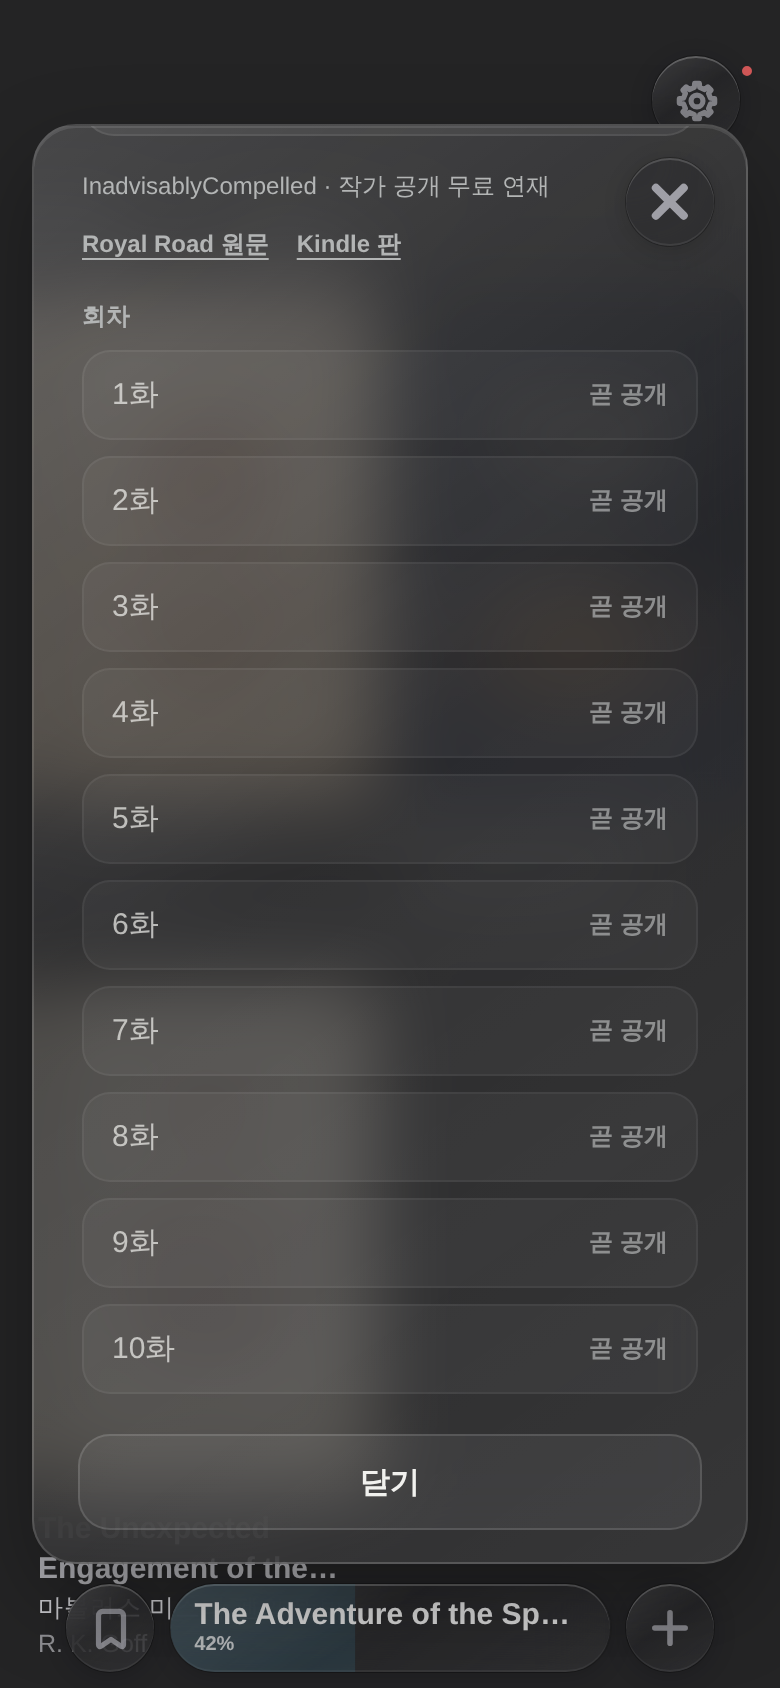
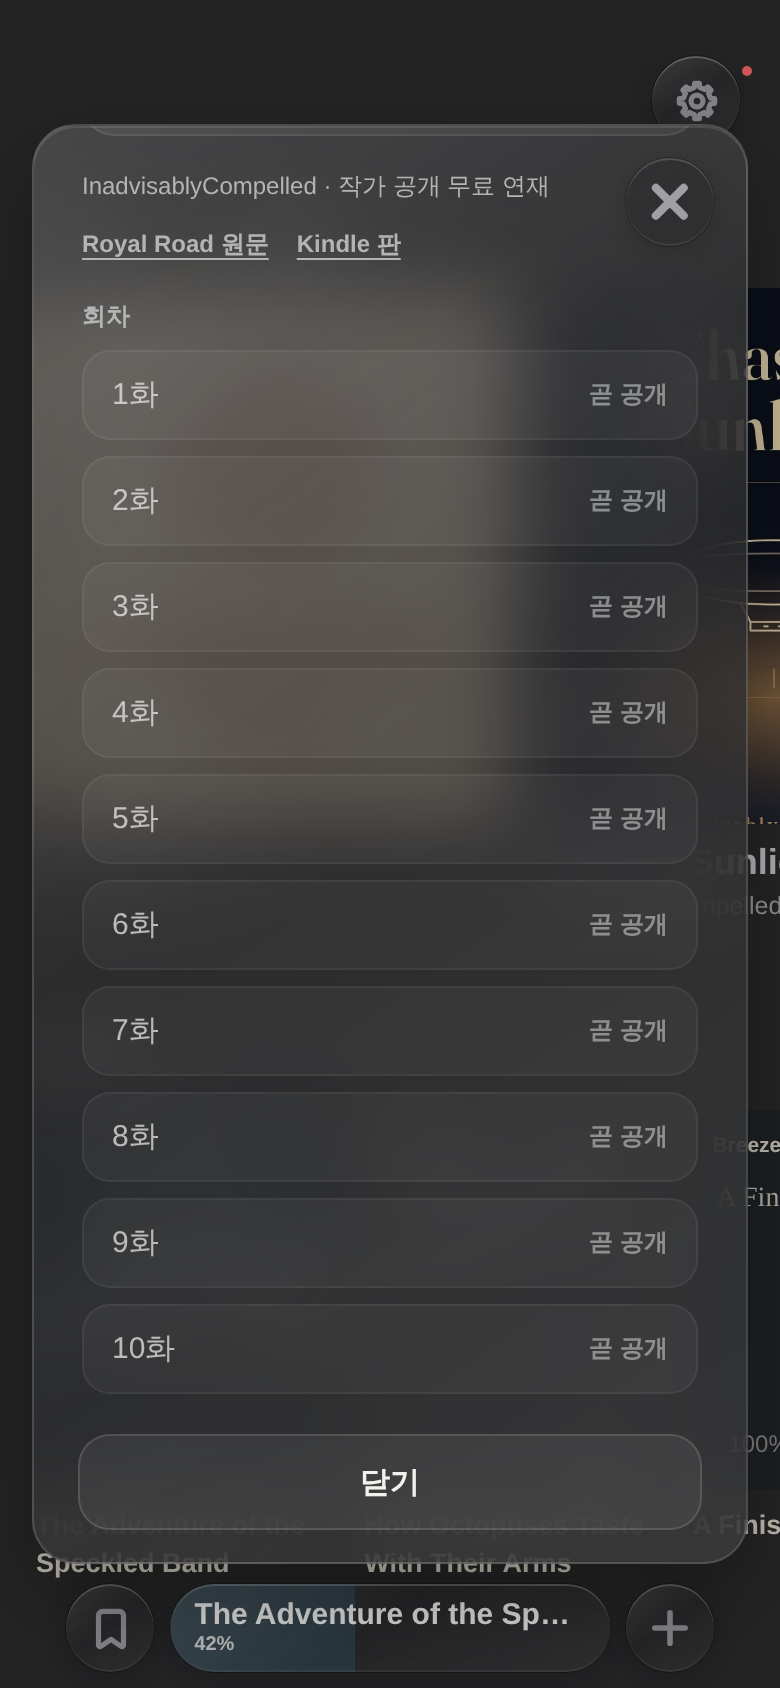
Home: web-novel cards share the classic cover frame; library uses the shared grid
- Hide the web-novel Korean line (.ko) in the 추천 carousel so its 3:4 card
  has the classic card's caption rows and the same cover size (238x268).
- Drop the new #longform-grid 2/3/4 minmax rule; the library keeps the grid it
  shares with the 글 page (190px cards, 2/3/4 columns).
- verify-rss-card-browser: 추천 is a carousel again, check sideways scroll.
- Capture tool: no dormant 기사 shot, add the library grid shot; regenerate QA PNGs.

diff --git a/styles/home.css b/styles/home.css
@@ -448,18 +448,17 @@
   }
 }
 
-/* ---- 내 책 library grid (2026-10-30) ----
+/* ---- Home carousels and the 내 책 library grid (2026-10-30) ----
    On Home both rows are sideways carousels (the rail rules above): 추천
-   (#casual-rail) and 내 책 (#shelf), as before #307. The grid lives in the
-   full library (#v-longform, opened by the 내 책 chevron): 2 columns on a
-   phone, 3 from 700px, 4 from 1024px. */
-#v-longform #longform-grid{grid-template-columns:repeat(2,minmax(0,1fr));}
-@media (min-width:700px){
-  #v-longform #longform-grid{grid-template-columns:repeat(3,minmax(0,1fr));gap:28px 16px;}
-}
-@media (min-width:1024px){
-  #v-longform #longform-grid{grid-template-columns:repeat(4,minmax(0,1fr));}
-}
+   (#casual-rail) and 내 책 (#shelf), as before #307. The grid is the full
+   library (#v-longform #longform-grid, opened by the 내 책 chevron) and uses
+   the shared library grid rule above, the same cards as #casual-grid:
+   2 columns on a phone, 3 on a tablet, 4 on a wide screen.
+   A web-novel card has the classic card's frame: cover, title, author. Its
+   Korean line (.ko) would add a third caption row inside the 3:4 card and
+   shrink the cover, so the carousel leaves it out; the Korean title stays in
+   the card's label and in the preview sheet's subtitle. */
+:is(#v-home #casual-rail, #v-longform #longform-recommend-rail) > .home-recommend-book .ko{display:none;}
 
 /* Quiet typographic jackets when no real cover is available. */
 .editorial-cover .cover-art{position:absolute;left:50%;top:19%;width:76%;height:43%;

diff --git a/index.html b/index.html
@@ -57,7 +57,7 @@
        씁니다 — 디자인을 바꾸는 일은 tokens.css 하나를 고치는 일입니다. -->
   <link rel="stylesheet" href="styles/tokens.css?v=936d21c4">
   <link rel="stylesheet" href="styles/base.css?v=489ca3ea">
-  <link rel="stylesheet" href="styles/home.css?v=bb7fa929">
+  <link rel="stylesheet" href="styles/home.css?v=4bdef506">
   <link rel="stylesheet" href="styles/article-preview.css?v=575ae217">
   <link rel="stylesheet" href="styles/pdf-ink.css?v=3057be2c">
   <link rel="stylesheet" href="styles/reader.css?v=99b81fe1">

diff --git a/landing/index.html b/landing/index.html
@@ -75,7 +75,7 @@
   <!-- 저장했다고 알리는 한 줄(`#toast`)과 단어장 한 줄(`.vrow`) -->
   <link rel="stylesheet" href="../styles/components.css?v=60b839c5">
   <!-- 서재의 책·글 카드(`.bookcard` · `.casual`) -->
-  <link rel="stylesheet" href="../styles/home.css?v=bb7fa929">
+  <link rel="stylesheet" href="../styles/home.css?v=4bdef506">
   <link rel="stylesheet" href="landing.css?v=18a60bd5">
 </head>
 <!-- `lang-ko` 는 앱과 같은 제목 글꼴 짝(Fraunces + 고운바탕)을 씁니다 — 로마자

diff --git a/sw.js b/sw.js
@@ -33,7 +33,7 @@
 /* tools/stamp-version.mjs 가 찍습니다 — 손으로 고치지 마세요.
    값은 "판 번호를 찍은 index.html 의 해시" 입니다. index.html 은 모든 파일의
    해시를 담고 있으니, 이 한 줄이 "무엇이든 바뀌었다" 를 정확히 가리킵니다. */
-const VERSION = 'c52c171b';
+const VERSION = '41d64ffa';
 const CACHE = `breeze-${VERSION}`;
 
 /* 담을 목록은 index.html 을 읽어서 그때그때 만듭니다. 손으로 적어 두면 파일을

diff --git a/docs/decisions/010-local-rss-recommendations.md b/docs/decisions/010-local-rss-recommendations.md
@@ -179,8 +179,13 @@ order (`compareRecentReading`), so a book is first in both places. On Home
 both rows are horizontal scrolling carousels (the pre-#307 style): the selected
 추천 tab's items, and 내 책, each run in one sideways row that scrolls on iPhone
 and iPad with no vertical hijack. The grid is the full library behind the 내 책
-chevron (`#v-longform #longform-grid`): 2 columns on a phone, 3 from 700px, 4
-from 1024px. Web-novel covers keep their 2:3 shape so nothing is cropped. The
+chevron (`#v-longform #longform-grid`). It uses the library grid rule it already
+shared with the 글 page (`#casual-grid`): columns of `min(41vw,190px)`, so 2
+columns on a phone (171px at 390), 3 on a tablet, 4 on a wide screen. Both
+library pages keep the same card size. In the 추천 carousel a web-novel card has
+the classic card's frame (cover, title, author); its Korean line (`.ko`) is not
+shown there, because a third caption row inside the 3:4 card shrank the cover.
+The Korean title stays in the card's label and the preview sheet's subtitle. The
 floating resume pill and + stay as they were.
 
 #### 추천 back to a carousel (2026-10-30, follow-up to #307)
@@ -190,7 +195,7 @@ was wrong: 추천 is a horizontal carousel again, exactly as before #307. A late
 correction made 내 책 on Home a carousel too, and moved the grid to the full
 library (`#v-longform`). This is CSS-only. `#casual-rail` and `#shelf` fall back
 to the rail rules (`display:flex; overflow-x:auto; scroll-snap-type:x`), and
-`#v-longform #longform-grid` is the 2/3/4-column grid. Everything else #307 introduced is kept: the
+`#v-longform #longform-grid` keeps the shared 2/3/4-column library grid. Everything else #307 introduced is kept: the
 고전/웹소설/기사 toggle, the three web novels and their new covers
 (`assets/webnovels/covers/*.webp`), and article→내 책 saving
 (`commitArticleDraft`).

diff --git a/docs/qa/home-rows-20261030.md b/docs/qa/home-rows-20261030.md
@@ -74,3 +74,23 @@ and `node tests/verify-structure.mjs` pass here. The browser checks
 (`tests/verify-home-rows-browser.mjs` and the RSS browser checks, which now turn
 the dormant tab on through `tests/helpers/home-articles.mjs`) and screenshots
 were not run here, for the same reason as above.
+
+## Follow-up: card sizes, screenshots (2026-10-31)
+
+Two browser checks failed on the previous head and pass now:
+
+- `verify-home-rows-browser`: web-novel covers in the 추천 carousel were
+  238×247 against the classic 238×268. The web-novel card's Korean line
+  (`.ko`) took a third caption row inside the 3:4 card. The carousel now hides
+  `.ko`, so web-novel and classic cards have the same frame (title, author).
+- `verify-casual-rails-browser`: a new 2/3/4 `minmax(0,1fr)` rule made the
+  내 책 library cards wider (228px at 768, 215px at 1180) than the 글 page
+  (190px). The rule is removed. The library already had a 2/3/4-column grid
+  shared with the 글 page (`min(41vw,190px)` columns), which meets the spec.
+
+Screenshots from `node tools/capture-home-rows.mjs` (iPhone 390×844 light shown here; it also
+writes iPhone dark and iPad) are in
+[`home-rows-20261030/`](home-rows-20261030/): `iphone-light-home-classics.png`,
+`iphone-light-home-webnovels.png`, `iphone-light-library-grid.png`.
+The `*-home-articles.png` files are from #307 and show the 기사 tab, which is
+now dormant; the capture tool no longer produces them.
